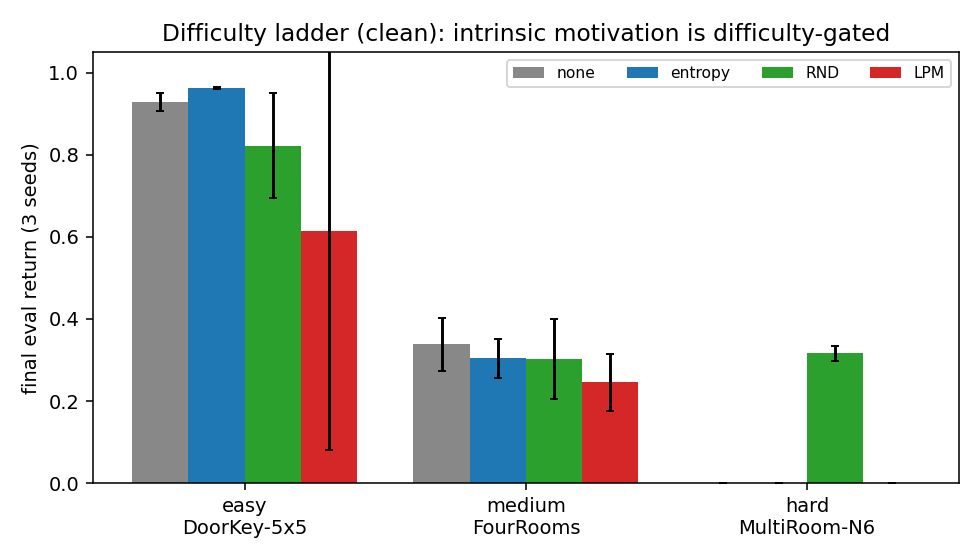
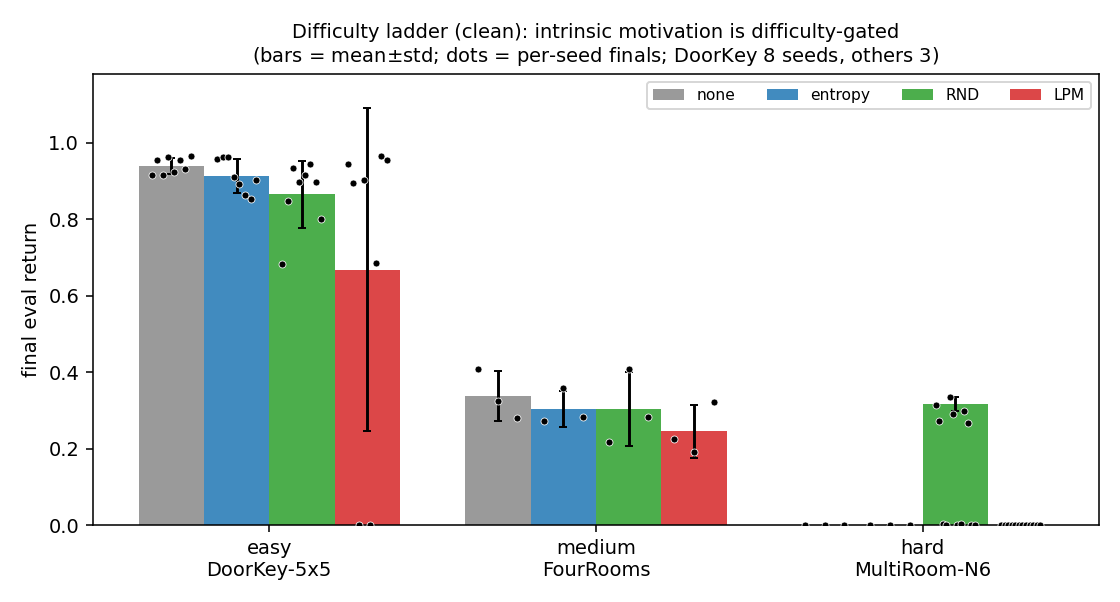
minigrid_exp: per-seed final-return dots on report bar charts
make_report_figs.py overlays per-seed finals on the difficulty-ladder and DoorKey-noise bars (matching the MiniWorld treatment), exposing LPM's bimodal 0/0.96 split rather than a uniform spread. Regenerates fig1_difficulty_ladder and fig3_doorkey_noise.

diff --git a/minigrid_exp/make_report_figs.py b/minigrid_exp/make_report_figs.py
@@ -2,6 +2,7 @@
 
 Writes to expr_data/minigrid/figures/report/. Run: PYTHONPATH=. python make_report_figs.py
 """
+import glob
 import os
 import numpy as np
 import pandas as pd
@@ -16,6 +17,36 @@ FIGDIR = os.path.join(str(config.EXPR_DATA), "figures")
 OUT = os.path.join(FIGDIR, "report")
 os.makedirs(OUT, exist_ok=True)
 TAB = pd.read_csv(os.path.join(FIGDIR, "table_final_success.csv"))
+LOGS_EVAL = os.path.join(str(config.EXPR_DATA), "results", "logs", "ppo", "eval")
+
+
+def per_seed_finals(env, variant, method, npv=np.nan, frac=0.1):
+    """Per-seed final eval return, using the SAME definition as analyze.py's bar
+    means: the mean over the last `frac` (10%) of the seed's eval curve
+    (chunks concatenated, sorted by global timestep). Using the same definition
+    for the dots and the bars keeps them consistent (otherwise a single-last-point
+    dot can sit above a windowed-mean bar even with no collapse)."""
+    base = f"{env}__{variant}__{method}__seed_".replace("/", "_")
+    vals = []
+    for d in sorted(glob.glob(os.path.join(LOGS_EVAL, base + "*"))):
+        run = os.path.basename(d)
+        if pd.isna(npv):
+            if "__np" in run:            # clean: reject noise runs
+                continue
+        elif not run.endswith(f"__np{npv:g}"):
+            continue
+        pts = []
+        for p in (sorted(glob.glob(os.path.join(d, "*", "evaluations.npz")))
+                  + glob.glob(os.path.join(d, "evaluations.npz"))):
+            z = np.load(p)
+            pts.extend((int(t), float(np.mean(r))) for t, r in zip(z["timesteps"], z["results"]))
+        if not pts:
+            continue
+        pts.sort(key=lambda tr: tr[0])
+        returns = [r for _, r in pts]
+        k = max(1, int(frac * len(returns)))
+        vals.append(float(np.mean(returns[-k:])))
+    return vals
 
 METHODS = ["none", "entropy", "rnd", "lpm"]
 COLORS = {"none": "#888888", "entropy": "#1f77b4", "rnd": "#2ca02c", "lpm": "#d62728"}
@@ -35,21 +66,32 @@ def fig_ladder():
     envs = [("MiniGrid-DoorKey-5x5-v0", "easy\nDoorKey-5x5"),
             ("MiniGrid-FourRooms-v0", "medium\nFourRooms"),
             ("MiniGrid-MultiRoom-N6-v0", "hard\nMultiRoom-N6")]
-    fig, ax = plt.subplots(figsize=(7, 4))
+    fig, ax = plt.subplots(figsize=(8, 4.3))
     x = np.arange(len(envs)); w = 0.2
     for i, m in enumerate(METHODS):
+        var = "intrinsic_no_noise" if m in ("rnd", "lpm") else "baseline_no_noise"
         means, stds = [], []
         for env, _ in envs:
-            var = "intrinsic_no_noise" if m in ("rnd", "lpm") else "baseline_no_noise"
             mu, sd = cell(env, var, m)
             means.append(mu); stds.append(sd)
-        ax.bar(x + (i - 1.5) * w, means, w, yerr=stds, capsize=2,
-               label=LBL[m], color=COLORS[m])
+        xpos = x + (i - 1.5) * w
+        ax.bar(xpos, means, w, yerr=stds, capsize=2, label=LBL[m],
+               color=COLORS[m], alpha=0.85, zorder=1)
+        # Overlay per-seed final returns (same windowed definition as the bars).
+        for j, (env, _) in enumerate(envs):
+            vals = per_seed_finals(env, var, m)
+            if not vals:
+                continue
+            jit = np.linspace(-1, 1, len(vals)) * w * 0.3 if len(vals) > 1 else np.array([0.0])
+            ax.scatter(np.full(len(vals), xpos[j]) + jit, vals, s=13, color="black",
+                       zorder=3, edgecolors="white", linewidths=0.4)
     ax.set_xticks(x); ax.set_xticklabels([e[1] for e in envs])
-    ax.set_ylabel("final eval return (3 seeds)")
-    ax.set_title("Difficulty ladder (clean): intrinsic motivation is difficulty-gated")
+    ax.set_ylabel("final eval return")
+    ax.set_title("Difficulty ladder (clean): intrinsic motivation is difficulty-gated\n"
+                 "(bars = mean$\\pm$std; dots = per-seed finals; DoorKey 8 seeds, others 3)",
+                 fontsize=10)
     ax.legend(ncol=4, fontsize=8, loc="upper right")
-    ax.set_ylim(0, 1.05)
+    ax.set_ylim(0, 1.18)
     fig.tight_layout(); fig.savefig(os.path.join(OUT, "fig1_difficulty_ladder.png"), dpi=140)
     plt.close(fig)
 
@@ -77,20 +119,38 @@ def fig_beta():
 # --- Fig 3: DoorKey clean vs noisy (the clean RQ4 demo) ---
 def fig_doorkey_noise():
     env = "MiniGrid-DoorKey-5x5-v0"
-    fig, ax = plt.subplots(figsize=(7, 4))
+    cvar = lambda m: "intrinsic_no_noise" if m in ("rnd", "lpm") else "baseline_no_noise"
+    nvar = lambda m: "intrinsic_noise" if m in ("rnd", "lpm") else "baseline_noise"
+    fig, ax = plt.subplots(figsize=(7.5, 4.3))
     x = np.arange(len(METHODS)); w = 0.38
-    clean = [cell(env, "intrinsic_no_noise" if m in ("rnd", "lpm") else "baseline_no_noise", m)
-             for m in METHODS]
-    noisy = [cell(env, "intrinsic_noise" if m in ("rnd", "lpm") else "baseline_noise", m, npv=0.1)
-             for m in METHODS]
+    clean = [cell(env, cvar(m), m) for m in METHODS]
+    noisy = [cell(env, nvar(m), m, npv=0.1) for m in METHODS]
     ax.bar(x - w / 2, [c[0] for c in clean], w, yerr=[c[1] for c in clean], capsize=3,
-           label="clean", color="#4c78a8")
+           label="clean (mean$\\pm$std)", color="#4c78a8", alpha=0.85, zorder=1)
     ax.bar(x + w / 2, [c[0] for c in noisy], w, yerr=[c[1] for c in noisy], capsize=3,
-           label="noisy (10%)", color="#e45756")
+           label="noisy 10% (mean$\\pm$std)", color="#e45756", alpha=0.85, zorder=1)
+    # Overlay per-seed final returns so bimodality (the LPM-clean 0/0.96 split) is visible.
+    for i, m in enumerate(METHODS):
+        for xc, vals in [(x[i] - w / 2, per_seed_finals(env, cvar(m), m)),
+                         (x[i] + w / 2, per_seed_finals(env, nvar(m), m, npv=0.1))]:
+            if not vals:
+                continue
+            jit = np.linspace(-1, 1, len(vals)) * w * 0.28 if len(vals) > 1 else np.array([0.0])
+            ax.scatter(np.full(len(vals), xc) + jit, vals, s=20, color="black",
+                       zorder=3, edgecolors="white", linewidths=0.5)
+    # Annotate the LPM-clean solve rate (the point of the whole figure).
+    li = METHODS.index("lpm")
+    cv = per_seed_finals(env, cvar("lpm"), "lpm")
+    n_solve = sum(v > 0.5 for v in cv)
+    ax.annotate(f"{n_solve}/{len(cv)} seeds solve;\n{len(cv) - n_solve}/{len(cv)} collapse to 0",
+                xy=(x[li] - w / 2, 0.55), fontsize=8, ha="center", va="center",
+                bbox=dict(boxstyle="round,pad=0.25", fc="white", ec="0.6", alpha=0.9), zorder=4)
     ax.set_xticks(x); ax.set_xticklabels([LBL[m] for m in METHODS])
-    ax.set_ylabel("final eval return"); ax.set_ylim(0, 1.05)
-    ax.set_title("DoorKey-5x5: under noise, RND collapses while LPM stays robust")
-    ax.legend(fontsize=9)
+    ax.set_ylabel("final eval return"); ax.set_ylim(0, 1.18)
+    ax.set_title("DoorKey-5x5: under noise, RND collapses while LPM stays robust\n"
+                 "(dots = per-seed finals; LPM-clean is bimodal, not just high-variance)",
+                 fontsize=10)
+    ax.legend(fontsize=8, loc="center left")
     fig.tight_layout(); fig.savefig(os.path.join(OUT, "fig3_doorkey_noise.png"), dpi=140)
     plt.close(fig)
 
